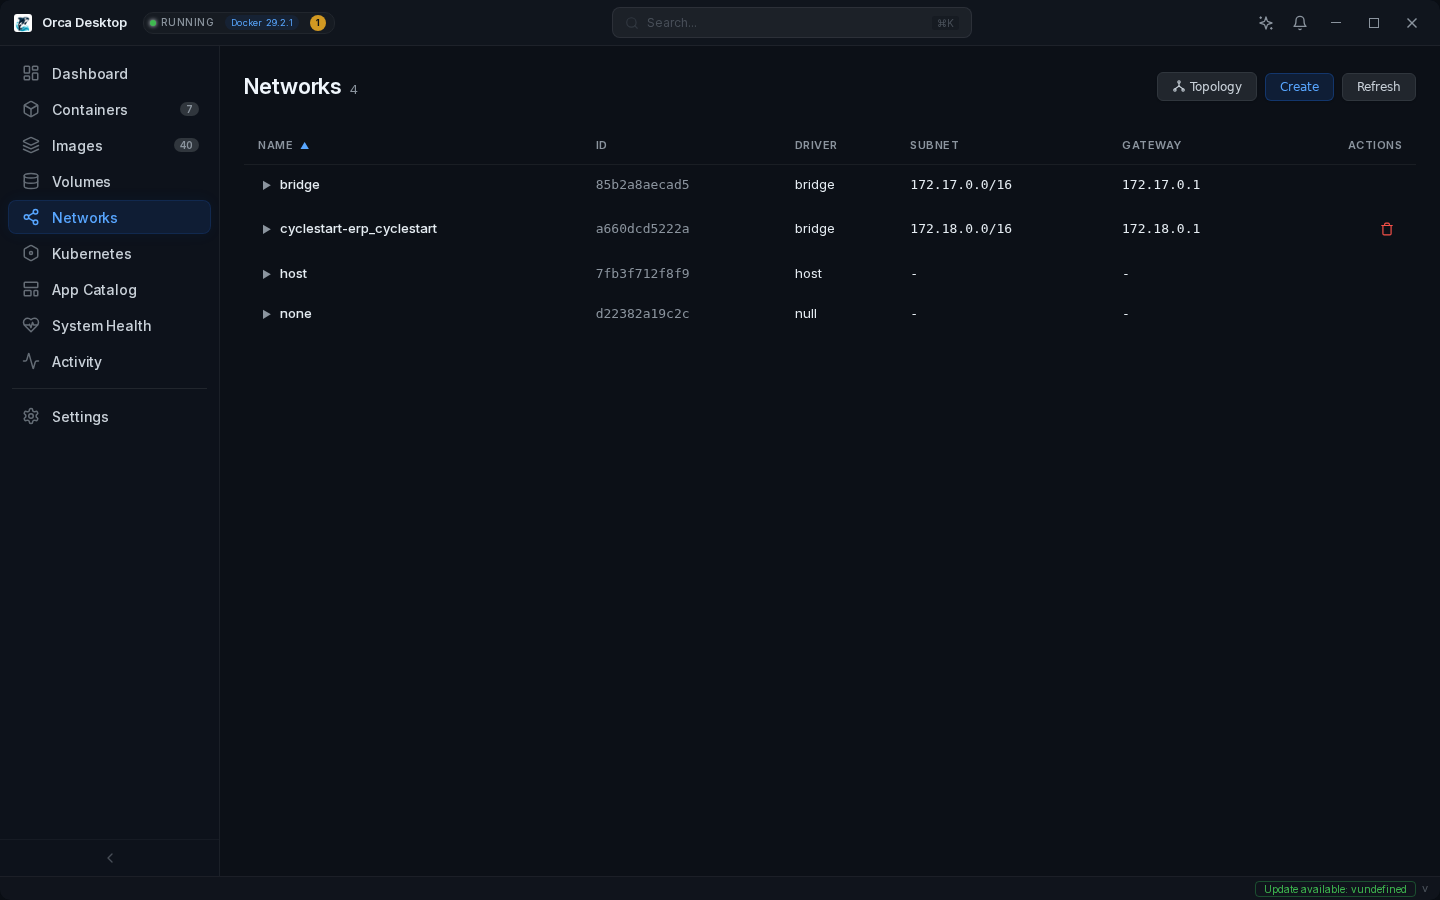
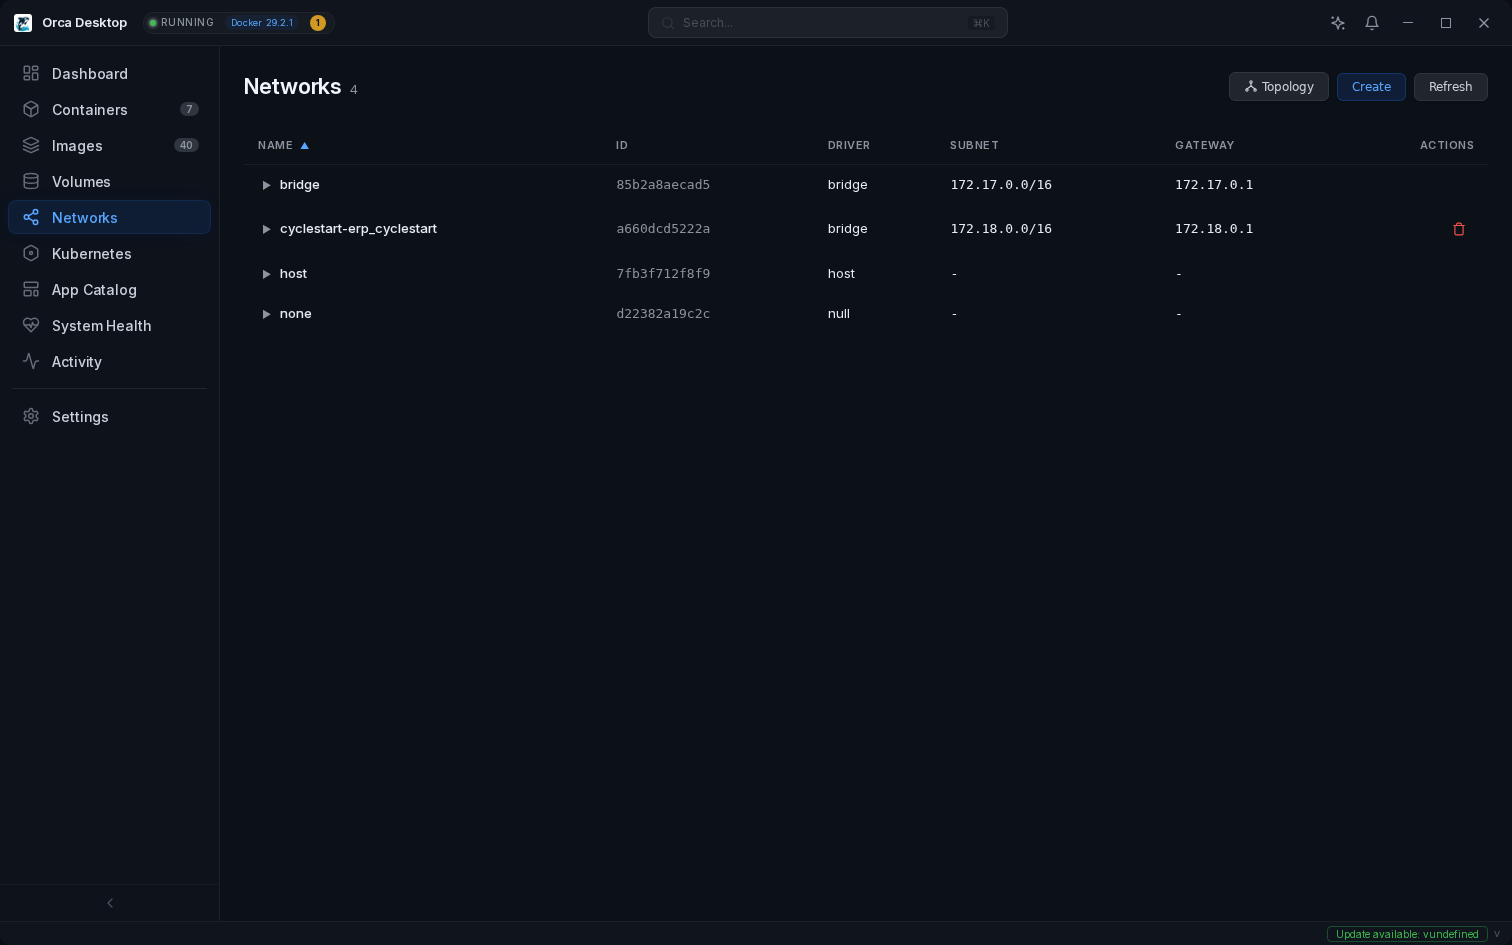
Wider viewport (1512x945) for screenshots, retake all

diff --git a/gui/playwright.config.ts b/gui/playwright.config.ts
@@ -5,7 +5,7 @@ export default defineConfig({
   timeout: 60_000,
   use: {
     baseURL: "http://localhost:5173",
-    viewport: { width: 1440, height: 900 },
+    viewport: { width: 1512, height: 945 },
     colorScheme: "dark",
     screenshot: "off",
   },
